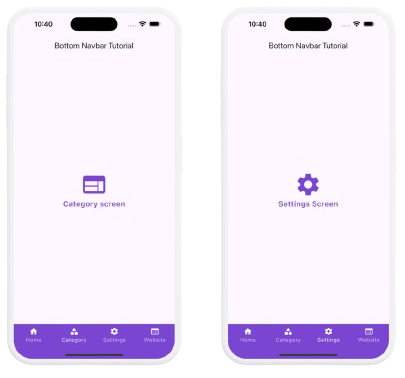
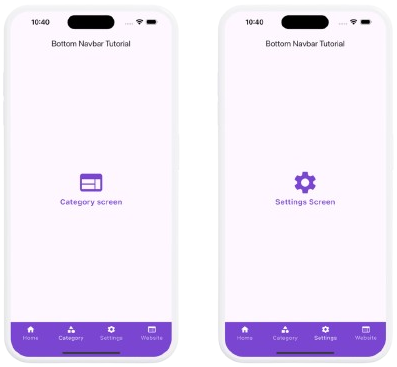
update: readme updated

diff --git a/README.md b/README.md
@@ -3,4 +3,4 @@
 This project is for learning how to use a bottom navigation bar in Flutter.
 
 ## Screenshots
-<img src="screenshots/one.png"> &nbsp;<img src="screenshots/two.png">
+<img src="screenshots/one.png" width="450" height="450"> <img src="screenshots/two.png" width="450" height="450">
